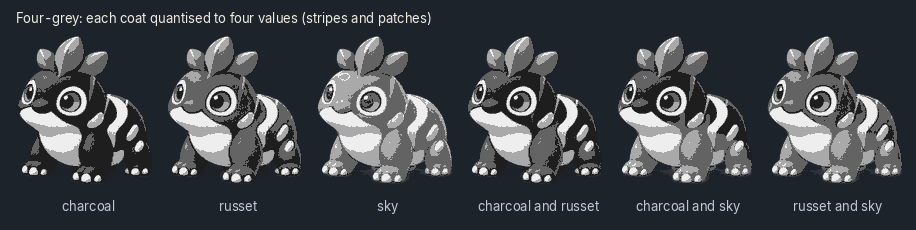
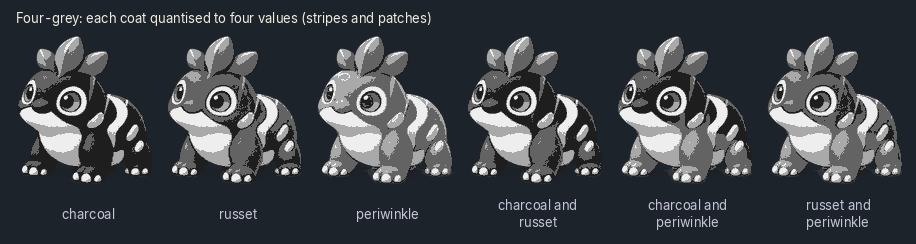
T-20261016-200: periwinkle as the third pigment; the window from four real version-4 pods

diff --git a/results/T-20261016-200/make-window.py b/results/T-20261016-200/make-window.py
@@ -1,0 +1,60 @@
+#!/usr/bin/env python3
+"""T-20261016-200: Home's living window with four real version-4 Loika pods (the genome engineer's seeds 165, 168,
+10 and 116), each drawn from its read looks with the layered stand: Colour (a painted ramp, or a two-tone for a mixed
+coat), Markings (stripes, patches, or both), Crown and Eyes (T-190). Same placing and contact shadows as T-190.
+
+  python3 make-window.py SRC FONTS OUT
+"""
+import os, sys
+here = os.path.dirname(os.path.abspath(__file__))
+mr = open(os.path.join(here, 'make-range.py')).read()
+exec(mr[:mr.index("# the genome engineer's likely frame")])   # the stand layers (T-190) and the colour and mark layers
+
+RAMPS2 = {'charcoal': ((22, 21, 25), (52, 50, 56), (104, 100, 108)), 'russet': RAMPS['russet'],
+          'periwinkle': ((52, 40, 104), (128, 108, 210), (204, 190, 248))}
+BASE_H = PLAIN.crop(PLAIN.getbbox()).height     # one scale for all four (T-190): size is not a locus
+sc = lambda img, h: img.resize((round(img.width * h / BASE_H), round(img.height * h / BASE_H)), Image.LANCZOS)
+EYES = {'eyes between': 'between', 'wide pale rings': 'wide', 'thin rings': 'thin'}
+PODS = [  # gs, the read looks (results/T-20261016-200/genome-engineer.md)
+    (165, 'charcoal', 'patches', 'leaf crest', 'eyes between'),
+    (168, 'russet', 'stripes', 'leaf crest', 'wide pale rings'),
+    (10, 'charcoal and periwinkle', 'stripes and patches', 'bare head', 'thin rings'),
+    (116, 'periwinkle', 'patches', 'leaf crest', 'thin rings'),
+]
+
+
+def stand_v4(colour, pattern, crown, eye_look):
+    base = loika('pale patches' if 'patches' in pattern else 'plain', crown, EYES[eye_look])
+    m = fur_mask(np.asarray(base, dtype=float))
+    if ' and ' in colour:
+        pa, pb = colour.split(' and ')
+        img = two_tone(base, RAMPS2[pa], RAMPS2[pb], m)
+    else:
+        img = recolour(base, RAMPS2[colour], m)
+    if 'stripes' in pattern:
+        img = stripes(img, m)
+    return img
+
+
+glass = src('home-glass-day-640x488.png')
+win = glass.copy()
+spots = [(140, 326, 150), (500, 270, 118), (420, 384, 140), (250, 436, 128)]   # T-190's ground rows
+for i in sorted(range(4), key=lambda i: spots[i][1]):
+    gs, col, pat, crown, eye_look = PODS[i]
+    s = sc(stand_v4(col, pat, crown, eye_look), spots[i][2])
+    if i in (1, 2):
+        s = s.transpose(Image.FLIP_LEFT_RIGHT)
+    x, y = spots[i][:2]
+    cw = int(s.width * 0.42)
+    win.alpha_composite(contact(cw, 12, 0.62), (x - cw, y - 14))
+    win.alpha_composite(s, (x - s.width // 2, y - s.height))
+today = src('home-docked.png').crop((16, 48, 672, 552))
+out = Image.new('RGBA', (656 + 16 + 640 + 32, 520 + 44 + 70), (12, 10, 18, 255)); d = ImageDraw.Draw(out)
+d.text((16, 12), 'Today (B-4 golden): one stand for every adult Loika', font=F16, fill=(241, 235, 223))
+d.text((656 + 32, 12), 'Version 4: four real pods, each drawn from its read looks', font=F16, fill=(241, 235, 223))
+out.alpha_composite(today, (16, 44))
+out.alpha_composite(win.crop((0, 0, 640, 488)), (656 + 32, 44))
+for i, (gs, col, pat, crown, eye_look) in enumerate(PODS):
+    d.text((656 + 32, 548 + i * 18), 'gs %d: %s, %s, %s, %s' % (gs, col, pat, crown, eye_look), font=F13, fill=(198, 196, 216))
+out.convert('RGB').save(os.path.join(OUT, 'home-window-four-v4-pods.png'), optimize=True)
+print('home-window-four-v4-pods.png')

diff --git a/results/T-20261016-200/make-range.py b/results/T-20261016-200/make-range.py
@@ -157,18 +157,18 @@ def stand_v2(colour, pattern):
 
 # the genome engineer's likely frame: three co-dominant pigments, six looks; every Loika marked
 RAMPS2 = {'charcoal': ((22, 21, 25), (52, 50, 56), (104, 100, 108)), 'russet': RAMPS['russet'],
-          'sky': ((32, 68, 118), (78, 144, 206), (168, 210, 242))}   # the third pigment: a value step above russet, cool against it
-COLOURS2 = ['charcoal', 'russet', 'sky', 'charcoal and russet', 'charcoal and sky', 'russet and sky']
+          'periwinkle': ((52, 40, 104), (128, 108, 210), (204, 190, 248))}   # the third pigment (a catalogue pigment): a value step above russet, cool against it
+COLOURS2 = ['charcoal', 'russet', 'periwinkle', 'charcoal and russet', 'charcoal and periwinkle', 'russet and periwinkle']
 PATTERNS = ['stripes', 'patches', 'stripes and patches']
 CW2, CH2 = 160, 172
 sh2 = Image.new('RGBA', (190 + len(PATTERNS) * CW2 + 16, 56 + len(COLOURS2) * CH2 + 16), (29, 35, 43, 255))
 d2 = ImageDraw.Draw(sh2)
-d2.text((16, 14), "The Loika's likely frame at Home's size (144 x 152), 1x: Colour (co-dominant, three pigments) x Pattern", font=F13, fill=(241, 235, 223))
+d2.text((16, 14), "The Loika's version 4 frame at Home's size (144 x 152), 1x: Colour (co-dominant, three pigments) x Pattern", font=F13, fill=(241, 235, 223))
 for j, pt in enumerate(PATTERNS):
     d2.text((190 + j * CW2 + CW2 // 2, 44), pt, font=F13, fill=(198, 196, 216), anchor='mm')
 for i, col in enumerate(COLOURS2):
     y = 56 + i * CH2
-    d2.text((16, y + CH2 // 2), col, font=F13, fill=(198, 196, 216), anchor='lm')
+    d2.text((16, y + CH2 // 2), col.replace(' and periwinkle', ' and\nperiwinkle'), font=F13, fill=(198, 196, 216), anchor='lm')
     for j, pt in enumerate(PATTERNS):
         s_ = fit(stand_v2(col, pt), 144, 152)
         x = 190 + j * CW2 + (CW2 - s_.width) // 2
@@ -186,12 +186,12 @@ def four_grey(img):
     out = np.dstack([q, q, q, a[..., 3].astype('uint8')])
     return Image.fromarray(out, 'RGBA')
 
-fg = Image.new('RGBA', (len(COLOURS2) * 150 + 16, 230), (29, 35, 43, 255)); dg = ImageDraw.Draw(fg)
+fg = Image.new('RGBA', (len(COLOURS2) * 150 + 16, 244), (29, 35, 43, 255)); dg = ImageDraw.Draw(fg)
 dg.text((16, 10), 'Four-grey: each coat quantised to four values (stripes and patches)', font=F13, fill=(241, 235, 223))
 for i, col in enumerate(COLOURS2):
     s_ = four_grey(fit(stand_v2(col, 'stripes and patches'), 144, 152))
     fg.alpha_composite(s_, (16 + i * 150, 36))
-    dg.text((16 + i * 150 + 72, 206), col, font=F13, fill=(198, 196, 216), anchor='mm')
+    dg.multiline_text((16 + i * 150 + 72, 214), col.replace(' and ', ' and\n'), font=F13, fill=(198, 196, 216), anchor='mm', align='center')
 fg.convert('RGB').save(os.path.join(OUT, 'loika-four-grey.png'), optimize=True)
 print('loika-four-grey.png')
 

diff --git a/results/T-20261016-200/art-director.md b/results/T-20261016-200/art-director.md
@@ -42,13 +42,11 @@ The genome engineer gave the frame's likely shape, so the range follows it. `loi
 
 **Colour: co-dominant, three pigments, six looks.**
 - **The pigments:** charcoal, russet and a third. The list is settled on the genome engineer's N2.
-- **The third is sky,** a clear cerulean.
-  - **Why not slate:** slate failed the four-grey test. Its value sits on russet's, so a russet-and-slate two-tone would merge.
-  - **Why sky:** it is a value step above russet and cool against it, so the three pigments are dark, middle and light (`loika-four-grey.png`), and every two-tone splits into two values.
-  - It reads on Home's moss, it isn't green, and the cream stripes and patches still hold on it.
-  - It is saturated, not pastel, so it doesn't read as a nursery colour.
-- **The three pure looks** are painted ramps, as above.
-- **The three mixed looks** (charcoal and russet, charcoal and sky, russet and sky) are one painted two-tone, not a blend: the first pigment over the back and head, the second over the flanks and legs. The split follows the body (a share of each column of fur from its top), with a short painted edge. A mixed Loika shows both its pigments, and a player can read which two.
+- **The third is periwinkle,** a catalogue pigment, as the frame requires. Sky, my first pick, isn't in the catalogue.
+  - **Why not slate or plum:** both fail four-grey. Their middle value sits on russet's, so a two-tone with russet would merge.
+  - **Why periwinkle:** it is the one catalogue pigment that is a value step above russet, cool against it, and not green. The three pigments read dark, middle and light (`loika-four-grey.png`), and every two-tone splits into two values.
+  - It reads on Home's moss, and the cream stripes and patches still hold on it.
+**The three mixed looks** (charcoal and russet, charcoal and periwinkle, russet and periwinkle) are one painted two-tone, not a blend: the first pigment over the back and head, the second over the flanks and legs. The split follows the body (a share of each column of fur from its top), with a short painted edge. A mixed Loika shows both its pigments, and a player can read which two.
 
 **Pattern: every Loika is marked, three looks that stack.**
 - **Stripes:** broad pale bands behind the shoulder, bowing back down the flank and tapering to a point, shaded by the fur under them. They are a full value step from the coat, so they read on charcoal at 144 × 152 (the creative director's point). They never cross the head.
@@ -59,4 +57,18 @@ The genome engineer gave the frame's likely shape, so the range follows it. `loi
 
 **The crest and eyes** are unchanged by N2 and are drawn as T-190's base.
 
-**Still to come:** the four real pods, for the redrawn window.
+## The window from four real pods (`home-window-four-v4-pods.png`, `make-window.py`)
+
+These are the genome engineer's seeds, each drawn from its read looks on T-190's ground rows with contact shadows:
+
+| gs | Read looks |
+| --- | --- |
+| 165 | charcoal, patches, leaf crest, eyes between |
+| 168 | russet, stripes, leaf crest, wide pale rings |
+| 10 | charcoal and periwinkle, stripes and patches, bare head, thin rings |
+| 116 | periwinkle, patches, leaf crest, thin rings |
+
+- **The four read as four at a glance,** carried first by colour, then by the marks and the crest.
+- **The two hidden bare heads** (165 and 168) don't show: hidden copies never draw.
+- **The creative director's check:** gs 168's stripes and gs 10's stripes and patches read as two looks.
+- **The proof's honest limit:** the bare head and the eye rings are T-190's proof edits, and the colours and marks are applied by code. The masters are painted layers, after the lead's approval.
